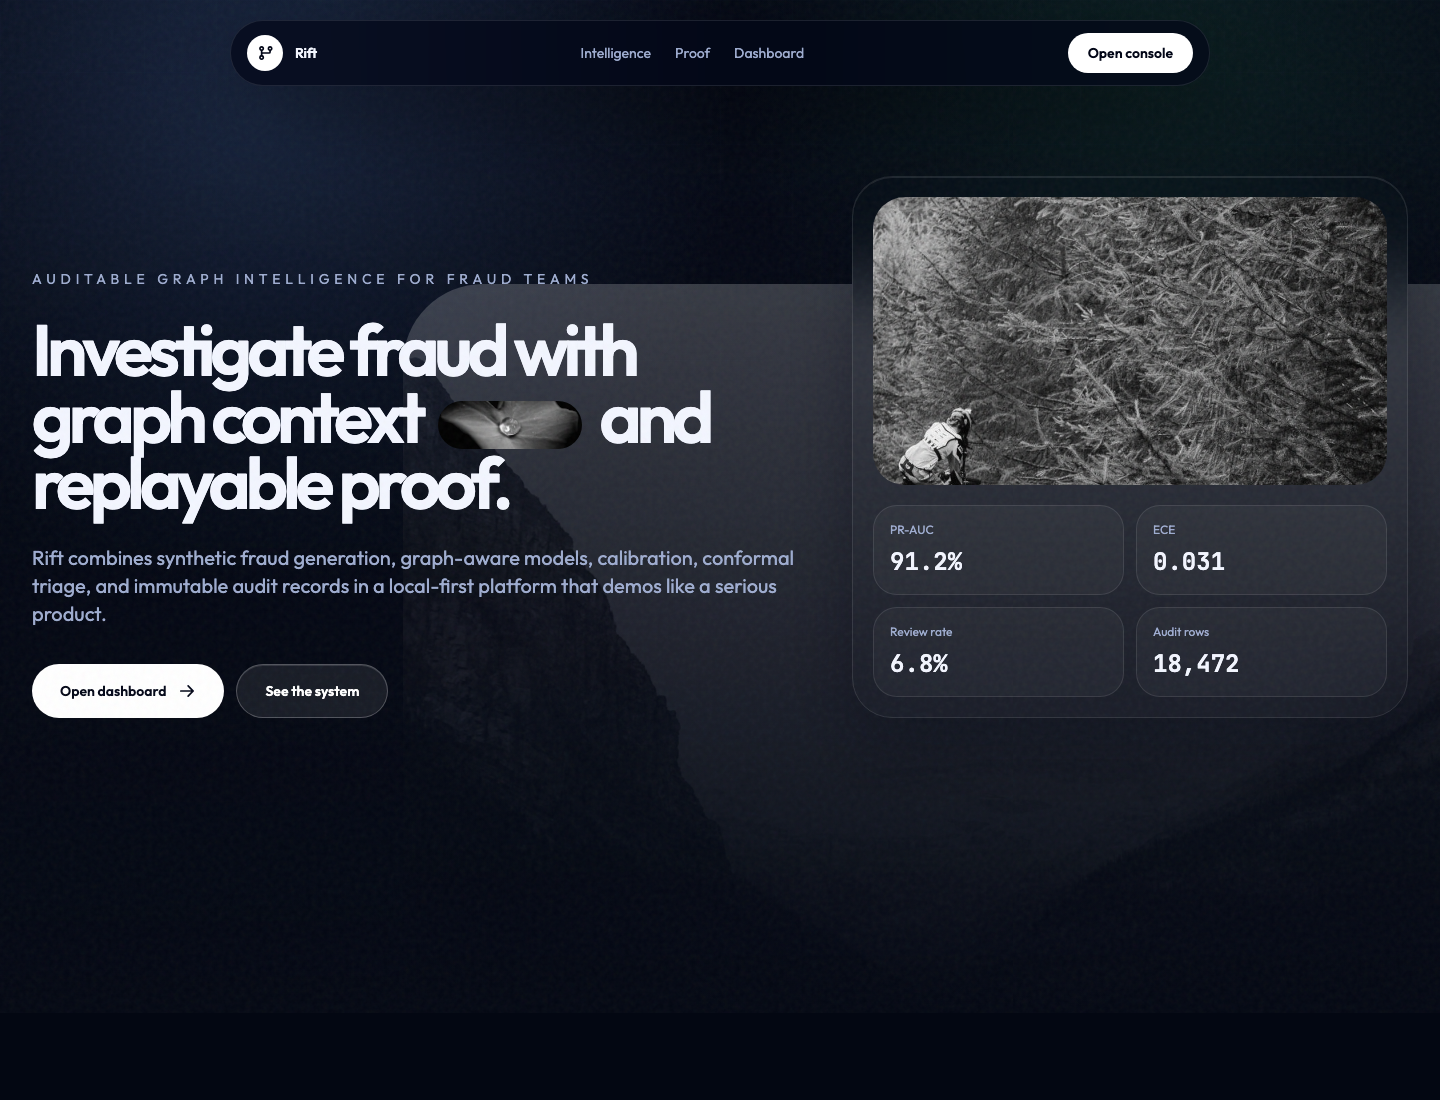
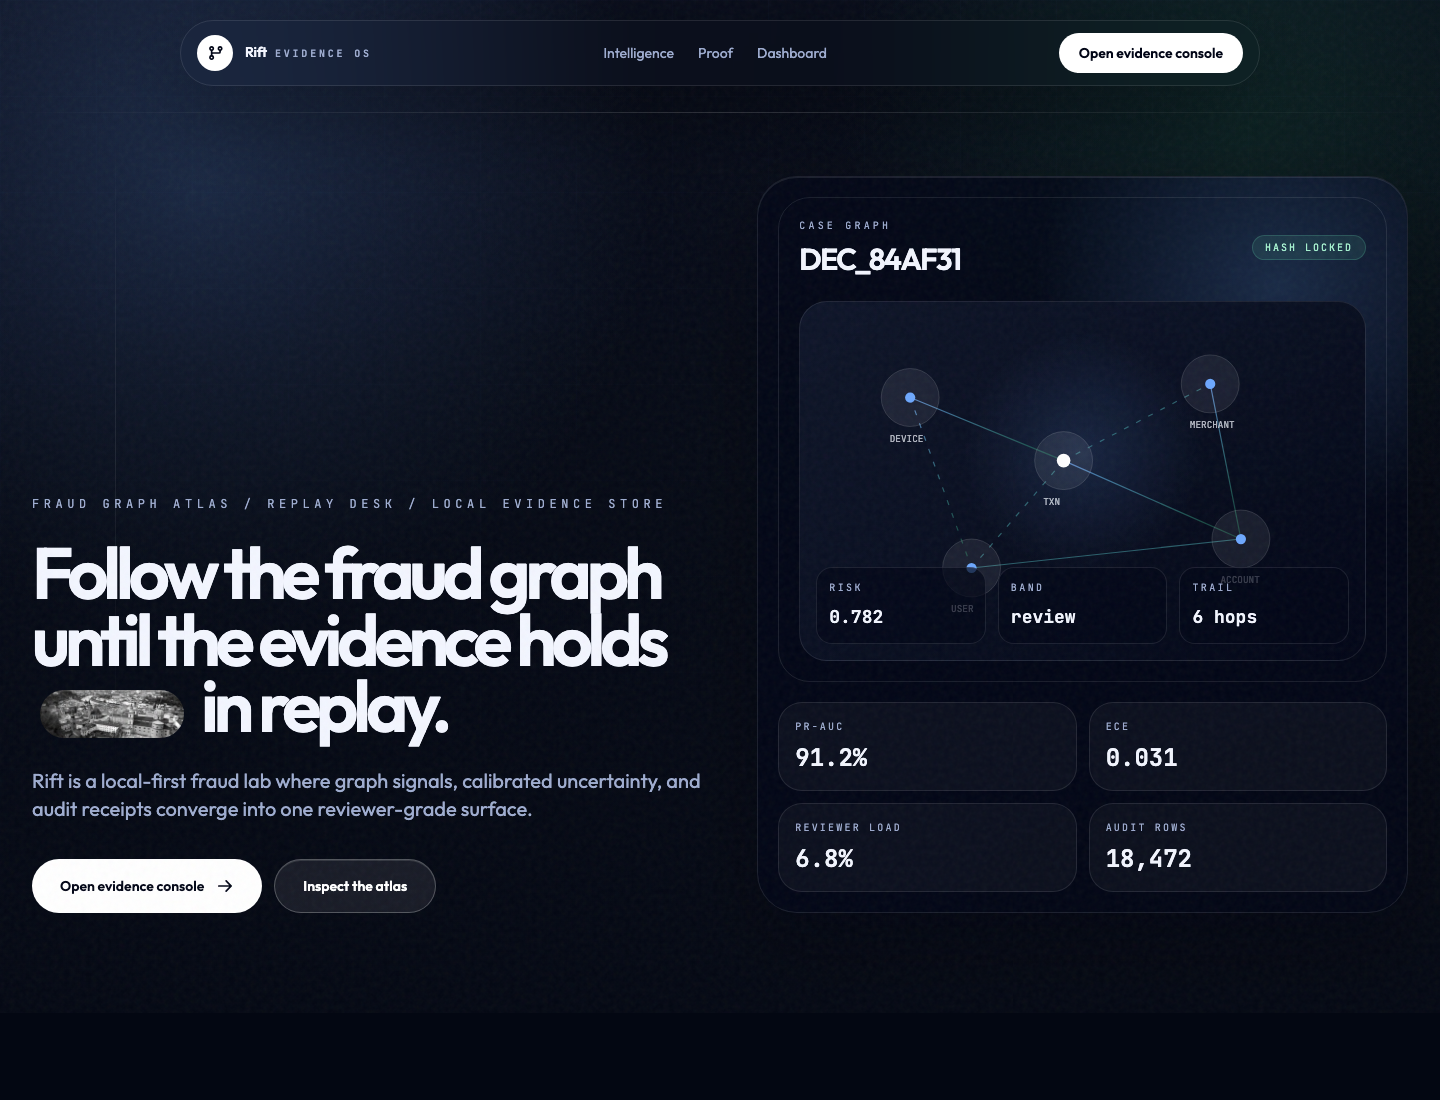
refine frontend evidence console

diff --git a/frontend/components/landing/landing-experience.tsx b/frontend/components/landing/landing-experience.tsx
@@ -21,36 +21,36 @@ gsap.registerPlugin(ScrollTrigger, useGSAP);
 
 const bentoCards = [
   {
-    title: "Graph fraud signals",
-    body: "Shared devices, account reuse, merchant clusters, and temporal links stay visible instead of disappearing into flat tables.",
+    title: "Device farms become neighborhoods",
+    body: "Shared devices, account reuse, merchant clusters, and temporal links stay visible as connected evidence instead of disappearing into flat tables.",
     className: "md:col-span-5",
     image: "https://picsum.photos/seed/rift-graph-topology/1200/800",
     icon: Graph
   },
   {
-    title: "Replayable decisions",
-    body: "Every score can be traced back to feature inputs, calibrated probabilities, model run metadata, and a durable decision hash.",
+    title: "Every score leaves a receipt",
+    body: "Feature inputs, calibrated probabilities, model run metadata, and durable hashes travel together through the review path.",
     className: "md:col-span-4",
     image: "https://picsum.photos/seed/rift-audit-ledger/1200/800",
     icon: LockKey
   },
   {
-    title: "Operational triage",
-    body: "Conformal bands separate low-risk approvals from cases that deserve human review.",
+    title: "Uncertainty gets routed",
+    body: "Conformal bands separate low-risk approvals from cases that deserve a human analyst before money moves.",
     className: "md:col-span-3",
     image: "https://picsum.photos/seed/rift-analyst-desk/1200/800",
     icon: WarningDiamond
   },
   {
-    title: "Governance artifacts",
+    title: "Governance is not a PDF afterthought",
     body: "Model cards, fairness audits, drift reports, and markdown exports are generated from the same local evidence store.",
     className: "md:col-span-7",
     image: "https://picsum.photos/seed/rift-governance-review/1400/900",
     icon: ShieldCheck
   },
   {
-    title: "Local-first stack",
-    body: "DuckDB, Polars, FastAPI, and Next.js run without managed services, while still feeling like a polished control room.",
+    title: "Local stack, serious posture",
+    body: "DuckDB, Polars, FastAPI, and Next.js run without managed services, while still feeling like an investigation-grade console.",
     className: "md:col-span-5",
     image: "https://picsum.photos/seed/rift-local-control-room/1200/900",
     icon: Database
@@ -153,13 +153,18 @@ export function LandingExperience() {
 
   return (
     <main ref={root} className="w-full max-w-full overflow-x-hidden bg-[#030712] text-ink">
-      <nav className="fixed left-1/2 top-5 z-20 w-[min(94vw,980px)] -translate-x-1/2 rounded-full border border-white/10 bg-slate-950/70 px-4 py-3 shadow-glass backdrop-blur-2xl">
+      <nav className="fixed left-1/2 top-5 z-20 w-[min(94vw,1080px)] -translate-x-1/2 rounded-full border border-white/10 bg-slate-950/76 px-4 py-3 shadow-glass backdrop-blur-2xl">
         <div className="flex items-center justify-between gap-4">
           <Link className="flex items-center gap-3 text-sm font-semibold tracking-tight" href="/">
             <span className="grid h-9 w-9 place-items-center rounded-full bg-white text-slate-950">
               <GitBranch size={18} weight="bold" />
             </span>
-            Rift
+            <span>
+              Rift
+              <span className="ml-2 hidden font-mono text-[10px] uppercase tracking-[0.28em] text-muted sm:inline">
+                Evidence OS
+              </span>
+            </span>
           </Link>
           <div className="hidden items-center gap-6 text-sm text-muted md:flex">
             <a className="transition hover:text-ink" href="#intelligence">
@@ -176,77 +181,138 @@ export function LandingExperience() {
             className="rounded-full bg-white px-5 py-2.5 text-sm font-semibold text-slate-950 transition hover:scale-[1.02] active:scale-[0.98]"
             href="/dashboard"
           >
-            Open console
+            Open evidence console
           </Link>
         </div>
       </nav>
 
       <section className="relative min-h-[100dvh] px-4 pb-24 pt-36 md:px-8 md:pb-32 md:pt-44">
         <div className="absolute inset-0 -z-0">
-          <div className="absolute inset-0 bg-[radial-gradient(circle_at_18%_12%,rgba(110,168,254,0.24),transparent_32%),radial-gradient(circle_at_80%_8%,rgba(47,191,113,0.15),transparent_28%)]" />
-          <div
-            aria-hidden="true"
-            className="absolute bottom-0 right-0 h-[72%] w-[72%] rounded-tl-[5rem] bg-cover bg-center opacity-35 mix-blend-luminosity grayscale contrast-125"
-            style={{ backgroundImage: "url(https://picsum.photos/seed/rift-risk-operations/1920/1080)" }}
-          />
-          <div className="absolute inset-0 bg-gradient-to-b from-slate-950/20 via-slate-950/78 to-[#030712]" />
+          <div className="absolute inset-0 bg-[radial-gradient(circle_at_14%_18%,rgba(110,168,254,0.22),transparent_30%),radial-gradient(circle_at_86%_12%,rgba(47,191,113,0.14),transparent_26%),linear-gradient(135deg,rgba(8,13,27,0.94),rgba(3,7,18,0.98))]" />
+          <div className="absolute inset-x-0 top-28 h-px bg-gradient-to-r from-transparent via-white/20 to-transparent" />
+          <div className="absolute left-[8vw] top-36 hidden h-[62vh] w-px bg-gradient-to-b from-transparent via-white/15 to-transparent lg:block" />
+          <div className="absolute inset-0 bg-[linear-gradient(rgba(110,168,254,0.06)_1px,transparent_1px),linear-gradient(90deg,rgba(110,168,254,0.06)_1px,transparent_1px)] bg-[size:96px_96px] opacity-30" />
+          <div className="absolute inset-0 bg-gradient-to-b from-transparent via-[#030712]/68 to-[#030712]" />
         </div>
 
         <div className="relative mx-auto max-w-[1400px]">
-          <div className="grid gap-12 lg:grid-cols-[minmax(0,1fr)_minmax(360px,0.72fr)] lg:items-end">
+          <div className="grid gap-12 lg:grid-cols-[minmax(0,1.02fr)_minmax(430px,0.98fr)] lg:items-end">
             <div className="min-w-0 max-w-6xl">
-              <p data-hero-copy className="mb-7 max-w-2xl text-sm uppercase tracking-[0.34em] text-muted">
-                Auditable graph intelligence for fraud teams
+              <p data-hero-copy className="mb-7 max-w-2xl font-mono text-xs uppercase tracking-[0.38em] text-muted">
+                Fraud graph atlas / replay desk / local evidence store
               </p>
               <h1
                 data-hero-copy
                 className="max-w-6xl font-display text-[clamp(3rem,5vw,5.5rem)] font-semibold leading-[0.92] tracking-[-0.07em]"
               >
-                Investigate fraud with graph context{" "}
+                Follow the fraud graph until the evidence holds{" "}
                 <span
                   className="mx-2 inline-block h-10 w-28 rounded-full bg-cover bg-center align-middle grayscale contrast-125 md:h-12 md:w-36"
-                  style={{ backgroundImage: "url(https://picsum.photos/seed/rift-inline-ledger/600/300)" }}
+                  style={{ backgroundImage: "url(https://picsum.photos/seed/rift-inline-forensic-map/600/300)" }}
                 />{" "}
-                and replayable proof.
+                in replay.
               </h1>
               <p data-hero-copy className="mt-7 max-w-3xl text-lg leading-8 text-muted md:text-xl">
-                Rift combines synthetic fraud generation, graph-aware models, calibration, conformal triage, and immutable audit records in a local-first platform that demos like a serious product.
+                Rift is a local-first fraud lab where graph signals, calibrated uncertainty, and audit receipts converge into one reviewer-grade surface.
               </p>
               <div data-hero-copy className="mt-9 flex flex-col gap-3 sm:flex-row">
                 <Link
                   className="group inline-flex items-center justify-center gap-3 rounded-full bg-white px-7 py-4 text-sm font-semibold text-slate-950 transition hover:scale-[1.02] active:scale-[0.98]"
                   href="/dashboard"
                 >
-                  Open dashboard
+                  Open evidence console
                   <ArrowRight className="transition group-hover:translate-x-1" size={18} weight="bold" />
                 </Link>
                 <a
                   className="inline-flex items-center justify-center rounded-full border border-white/25 bg-white/[0.08] px-7 py-4 text-sm font-semibold text-white shadow-[inset_0_1px_0_rgba(255,255,255,0.12)] transition hover:border-white/45 hover:bg-white/[0.12] active:scale-[0.98]"
                   href="#intelligence"
                 >
-                  See the system
+                  Inspect the atlas
                 </a>
               </div>
             </div>
 
-            <aside data-hero-copy className="glass-edge rounded-[2.5rem] bg-slate-950/64 p-5 backdrop-blur-2xl">
-              <div className="overflow-hidden rounded-[2rem]">
-                <div
-                  aria-label="Fraud investigation console with network evidence"
-                  className="h-72 w-full bg-cover bg-center grayscale transition-transform duration-700 ease-out hover:scale-105"
-                  role="img"
-                  style={{ backgroundImage: "url(https://picsum.photos/seed/rift-analyst-console/900/900)" }}
-                />
+            <aside data-hero-copy className="glass-edge relative overflow-hidden rounded-[2.5rem] bg-slate-950/70 p-5 backdrop-blur-2xl">
+              <div className="absolute inset-0 bg-[radial-gradient(circle_at_80%_15%,rgba(110,168,254,0.2),transparent_30%)]" />
+              <div className="relative rounded-[2rem] border border-white/10 bg-slate-950/88 p-5">
+                <div className="mb-6 flex items-center justify-between gap-4">
+                  <div>
+                    <p className="font-mono text-[10px] uppercase tracking-[0.32em] text-muted">Case graph</p>
+                    <h2 className="mt-2 font-display text-3xl font-semibold tracking-[-0.05em]">DEC_84AF31</h2>
+                  </div>
+                  <div className="rounded-full border border-emerald-300/20 bg-emerald-300/10 px-3 py-1 font-mono text-[10px] uppercase tracking-[0.2em] text-emerald-200">
+                    hash locked
+                  </div>
+                </div>
+
+                <div className="relative h-[360px] overflow-hidden rounded-[1.75rem] border border-white/10 bg-[radial-gradient(circle_at_50%_42%,rgba(110,168,254,0.15),transparent_34%),linear-gradient(135deg,rgba(15,23,42,0.9),rgba(2,6,23,0.96))]">
+                  <svg className="absolute inset-0 h-full w-full" role="img" viewBox="0 0 640 420">
+                    <title>Fraud graph evidence map</title>
+                    <defs>
+                      <linearGradient id="edge-gradient" x1="0" x2="1" y1="0" y2="1">
+                        <stop offset="0%" stopColor="#6ea8fe" stopOpacity="0.7" />
+                        <stop offset="100%" stopColor="#2fbf71" stopOpacity="0.28" />
+                      </linearGradient>
+                    </defs>
+                    {[
+                      [118, 112, 298, 186],
+                      [298, 186, 470, 96],
+                      [298, 186, 506, 278],
+                      [118, 112, 190, 312],
+                      [190, 312, 506, 278],
+                      [298, 186, 190, 312],
+                      [470, 96, 506, 278]
+                    ].map(([x1, y1, x2, y2], index) => (
+                      <line
+                        key={`${x1}-${y1}-${index}`}
+                        stroke="url(#edge-gradient)"
+                        strokeDasharray={index % 2 ? "6 10" : undefined}
+                        strokeWidth="1.4"
+                        x1={x1}
+                        x2={x2}
+                        y1={y1}
+                        y2={y2}
+                      />
+                    ))}
+                    {[
+                      [118, 112, "device"],
+                      [298, 186, "txn"],
+                      [470, 96, "merchant"],
+                      [506, 278, "account"],
+                      [190, 312, "user"]
+                    ].map(([x, y, label]) => (
+                      <g key={label}>
+                        <circle cx={x as number} cy={y as number} fill="rgba(255,255,255,0.08)" r="34" stroke="rgba(255,255,255,0.16)" />
+                        <circle cx={x as number} cy={y as number} fill={label === "txn" ? "#ffffff" : "#6ea8fe"} r={label === "txn" ? "8" : "6"} />
+                        <text fill="rgba(243,246,255,0.72)" fontFamily="JetBrains Mono" fontSize="11" x={(x as number) - 24} y={(y as number) + 52}>
+                          {String(label).toUpperCase()}
+                        </text>
+                      </g>
+                    ))}
+                  </svg>
+                  <div className="absolute bottom-4 left-4 right-4 grid gap-3 sm:grid-cols-3">
+                    {[
+                      ["risk", "0.782"],
+                      ["band", "review"],
+                      ["trail", "6 hops"]
+                    ].map(([label, value]) => (
+                      <div className="rounded-2xl border border-white/10 bg-slate-950/70 p-3" key={label}>
+                        <p className="font-mono text-[10px] uppercase tracking-[0.24em] text-muted">{label}</p>
+                        <p className="mt-2 font-mono text-lg font-semibold">{value}</p>
+                      </div>
+                    ))}
+                  </div>
+                </div>
               </div>
-              <div className="mt-5 grid grid-cols-2 gap-3">
+              <div className="relative mt-5 grid grid-cols-2 gap-3">
                 {[
                   ["PR-AUC", "91.2%"],
                   ["ECE", "0.031"],
-                  ["Review rate", "6.8%"],
+                  ["Reviewer load", "6.8%"],
                   ["Audit rows", "18,472"]
                 ].map(([label, value]) => (
                   <div className="rounded-3xl border border-white/10 bg-white/[0.035] p-4" key={label}>
-                    <p className="text-xs text-muted">{label}</p>
+                    <p className="font-mono text-[10px] uppercase tracking-[0.22em] text-muted">{label}</p>
                     <p className="mt-2 font-mono text-2xl font-semibold">{value}</p>
                   </div>
                 ))}

diff --git a/frontend/app/dashboard/page.tsx b/frontend/app/dashboard/page.tsx
@@ -1,9 +1,10 @@
 "use client";
 
 import { useMemo } from "react";
+import Link from "next/link";
 import { ColumnDef } from "@tanstack/react-table";
 import { motion } from "framer-motion";
-import { ArrowsClockwise, Database, GitBranch, Pulse, ShieldWarning, Table } from "@phosphor-icons/react";
+import { ArrowsClockwise, Database, GitBranch, Graph, LockKey, Pulse, ShieldWarning, Table } from "@phosphor-icons/react";
 import { DataTable } from "@/components/dashboard/data-table";
 import { KpiCard } from "@/components/dashboard/kpi-card";
 import { OperationsBreakdownChart } from "@/components/dashboard/operations-breakdown-chart";
@@ -182,39 +183,62 @@ export default function DashboardPage() {
   return (
     <main className="min-h-[100dvh] px-4 py-5 text-ink md:px-6 xl:px-8">
       <div className="mx-auto max-w-[1480px]">
+        <nav className="mb-5 rounded-full border border-white/10 bg-slate-950/72 px-4 py-3 shadow-glass backdrop-blur-2xl">
+          <div className="flex flex-col gap-3 md:flex-row md:items-center md:justify-between">
+            <Link className="flex items-center gap-3 text-sm font-semibold tracking-tight" href="/">
+              <span className="grid h-9 w-9 place-items-center rounded-full bg-white text-slate-950">
+                <GitBranch size={18} weight="bold" />
+              </span>
+              <span>
+                Rift
+                <span className="ml-2 font-mono text-[10px] uppercase tracking-[0.28em] text-muted">Evidence console</span>
+              </span>
+            </Link>
+            <div className="flex flex-wrap items-center gap-2 font-mono text-[10px] uppercase tracking-[0.22em] text-muted">
+              <span className="rounded-full border border-white/10 px-3 py-1">Graph atlas</span>
+              <span className="rounded-full border border-white/10 px-3 py-1">Decision replay</span>
+              <span className="rounded-full border border-emerald-300/20 bg-emerald-300/10 px-3 py-1 text-emerald-200">Hash locked</span>
+            </div>
+          </div>
+        </nav>
+
         {isDemoData ? (
           <div className="mb-4 rounded-full border border-amber-300/25 bg-amber-300/10 px-5 py-3 text-sm text-amber-100">
             API unavailable in this session, so the console is showing realistic local demo telemetry for visual QA.
           </div>
         ) : null}
         <motion.header
-          className="surface mb-6 rounded-[36px] border border-[color:var(--color-line)] px-6 py-6 md:px-8 md:py-7"
+          className="glass-edge relative mb-6 overflow-hidden rounded-[36px] border border-[color:var(--color-line)] bg-slate-950/72 px-6 py-6 md:px-8 md:py-7"
           initial={{ opacity: 0, y: 24 }}
           animate={{ opacity: 1, y: 0 }}
           transition={{ duration: 0.55, ease: [0.25, 0.46, 0.45, 0.94] }}
-          style={{ backgroundImage: "var(--gradient-hero)" }}
         >
-          <div className="flex flex-col gap-6 xl:flex-row xl:items-end xl:justify-between">
-            <div className="max-w-3xl">
-              <div className="mb-4 inline-flex items-center gap-2 rounded-full border border-[color:var(--color-line)] bg-white/[0.03] px-4 py-2 text-[11px] uppercase tracking-[0.22em] text-muted">
-                <GitBranch className="h-4 w-4 text-accent" />
-                React operations console
+          <div className="absolute inset-0 bg-[radial-gradient(circle_at_76%_10%,rgba(110,168,254,0.22),transparent_32%),linear-gradient(135deg,rgba(15,23,42,0.72),rgba(2,6,23,0.92))]" />
+          <div className="absolute inset-0 bg-[linear-gradient(rgba(110,168,254,0.05)_1px,transparent_1px),linear-gradient(90deg,rgba(110,168,254,0.05)_1px,transparent_1px)] bg-[size:72px_72px] opacity-40" />
+          <div className="relative grid gap-7 xl:grid-cols-[minmax(0,1fr)_430px] xl:items-end">
+            <div className="max-w-4xl">
+              <div className="mb-4 inline-flex items-center gap-2 rounded-full border border-[color:var(--color-line)] bg-white/[0.04] px-4 py-2 font-mono text-[11px] uppercase tracking-[0.22em] text-muted">
+                <Graph className="h-4 w-4 text-accent" />
+                Live fraud graph evidence desk
               </div>
               <h1 className="font-display text-[clamp(2.6rem,5vw,4.75rem)] leading-[0.94] tracking-[-0.06em]">
-                Real-time fraud operations, rebuilt as a product surface.
+                Evidence console for the fraud graph.
               </h1>
               <p className="mt-4 max-w-2xl text-base leading-8 text-muted md:text-lg">
-                Next.js, SWR, Recharts, Framer Motion, and TanStack Table now sit on top of the existing FastAPI endpoints so the dashboard behaves like a modern SPA instead of a static admin page.
+                Review graph risk, calibration drift, replayable decisions, and data lineage from the same local snapshot. The console uses realistic demo telemetry when the API is offline so the investigation surface never looks empty.
               </p>
             </div>
 
-            <div className="grid gap-3 sm:grid-cols-2 xl:min-w-[360px]">
-              <div className="rounded-[24px] border border-[color:var(--color-line)] bg-slate-950/55 p-4">
-                <div className="text-[11px] uppercase tracking-[0.22em] text-muted">Current Run</div>
-                <div className="mt-3 font-mono text-base text-ink">{summary?.current_model?.run_id ?? "No active run"}</div>
+            <div className="grid gap-3">
+              <div className="rounded-[28px] border border-white/10 bg-slate-950/60 p-5">
+                <div className="flex items-center justify-between gap-4">
+                  <div className="font-mono text-[11px] uppercase tracking-[0.22em] text-muted">Current evidence chain</div>
+                  <LockKey className="h-4 w-4 text-emerald-300" weight="duotone" />
+                </div>
+                <div className="mt-3 break-all font-mono text-base text-ink">{summary?.current_model?.run_id ?? "No active run"}</div>
                 <div className="mt-2 text-sm text-muted">{summary?.current_metrics?.model_type ?? "No model metadata"}</div>
               </div>
-              <div className="rounded-[24px] border border-[color:var(--color-line)] bg-slate-950/55 p-4">
+              <div className="rounded-[28px] border border-white/10 bg-slate-950/60 p-5">
                 <div className="flex items-center justify-between gap-4 text-[11px] uppercase tracking-[0.22em] text-muted">
                   <span>Live Refresh</span>
                   <span
